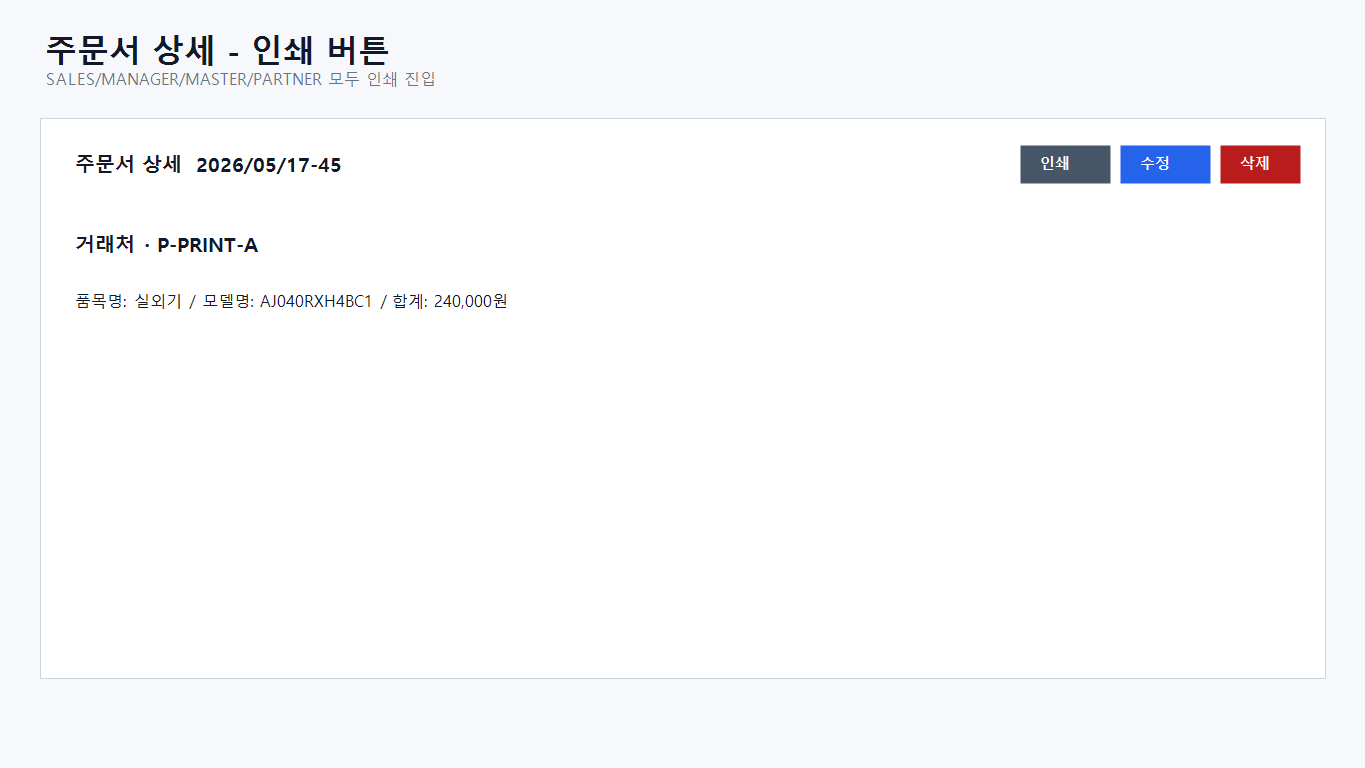
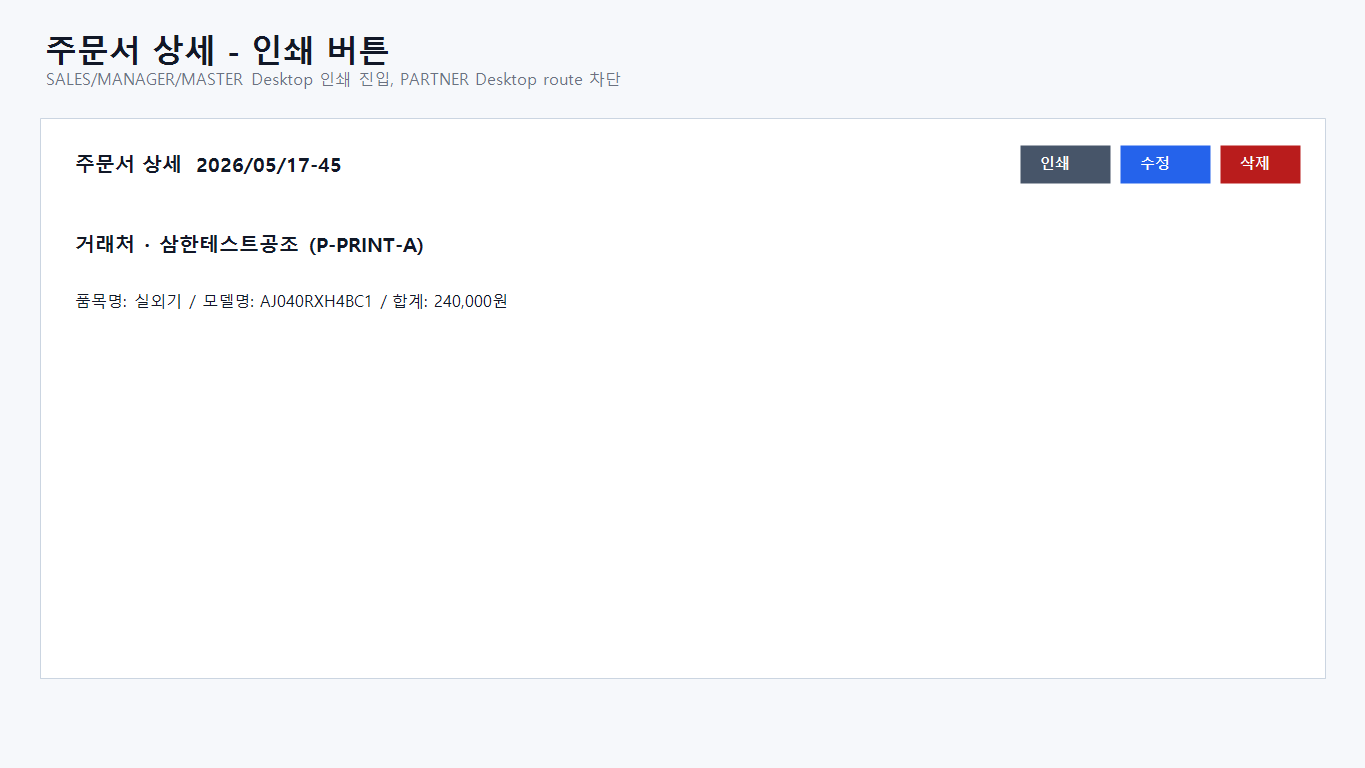
fix(sp-08-4-4): 사이클 1 Claude fix — CRITICAL 1 + P1 5 + P2/Nit 일괄 (5회차 1c)
사용자 정책 5회차: 사이클 1 = Claude review → **Claude fix** → Codex review → Codex fix. 양쪽 합의 핵심 결함 일괄 처리.

FE CRITICAL (D-1) — 기능 차단 해소:
- handlePrint window.open → apiClient.get blob + URL.createObjectURL 새 탭
- AuthSnapshot.partnerCode 저장/노출 (main IPC + preload + renderer)
- axios interceptor PARTNER role X-Partner-Code 자동 주입
- JWT Bearer + X-Partner-Code 정합 (운영 401/403 차단)

BE P1:
- PartnerOrderPrintService PartnerLookupClient 기반 거래처명 동적 조회
- PartnerOrderPrintIT Content-Type charset=UTF-8 헤더 직접 검증
- statusLabel() 한국어 매핑 (DRAFT/CONFIRMING/CONFIRMED/CANCELED → 초안/확인 중/확정/취소)

Designer P1:
- BE inline HTML + 'Pretendard Variable' 우선 순서 (font-weight 일관)
- print.module.css 제거 (BE inline 사용 — dead code 회피)
- tr { page-break-inside: avoid } 추가

FE HIGH/MEDIUM:
- /sales/partner-orders 라우트 RoleGuard ['SALES', 'MANAGER', 'MASTER'] (PARTNER 데스크탑 차단)
- handlePrint dead guard 제거

P2/Nit 일괄:
- HttpHeaderConstants.PARTNER_CODE_HEADER 추가 + Controller + IT 사용 (분산 정의 통합)
- PartnerOrderPrintService 부가세 역산 Javadoc 보강
- categoryLabel default "기타" fallback
- confirmedAt null → createdAt fallback
- IT saveOrder orderNo 포맷 일관 정리
- dev-report §6 Verification table PASS 갱신
- lint warning 0 (기존 2건 정리 — InventoryAuditDetailPage / SlipDetailPage)

skip (사이클 2 사용자 캡처 후 iteration):
- Designer D5 (날인란 라벨), D6 (버튼 위계), D7 (preview shadow)

검증:
- Gradle IT 5 회귀 + Content-Type 강화 + partnerName 검증 PASS (Codex sandbox GRADLE_USER_HOME)
- Desktop typecheck / lint PASS (warning 0)
[…]

Changed region(s): [[0.0308, 0.0938, 0.4615, 0.125], [0.0923, 0.2812, 0.3077, 0.3438]]

diff --git a/clients/desktop/src/renderer/routes/SalesPartnerOrderDetailPage.tsx b/clients/desktop/src/renderer/routes/SalesPartnerOrderDetailPage.tsx
@@ -17,6 +17,7 @@ import {
   type PartnerOrderDetail,
   type PartnerOrderUpdateRequest,
 } from '../api/sales'
+import { apiClient } from '../api/client'
 import { partnerOrderAuditApi } from '../api/createAuditApi'
 import { usePageTitleStore } from '../stores/pageTitle'
 import { useSessionStore } from '../stores/session'
@@ -30,7 +31,7 @@ const bundleModeLabel = (mode: 'EXPAND' | 'KEEP' | null) => {
   return null
 }
 const EDIT_ROLES = ['SALES', 'MANAGER', 'MASTER']
-const PRINT_ROLES = ['SALES', 'MANAGER', 'MASTER', 'PARTNER']
+const PRINT_ROLES = ['SALES', 'MANAGER', 'MASTER']
 
 type EditLine = PartnerOrderUpdateRequest['lines'][number] & { key: string }
 
@@ -67,6 +68,7 @@ export function SalesPartnerOrderDetailPage() {
   const [editOpen, setEditOpen] = useState(false)
   const [deleteOpen, setDeleteOpen] = useState(false)
   const [deleteErrorMessage, setDeleteErrorMessage] = useState<string | null>(null)
+  const [printErrorMessage, setPrintErrorMessage] = useState<string | null>(null)
   const [conflictMessage, setConflictMessage] = useState<string | null>(null)
   const [reloadSuccessMessage, setReloadSuccessMessage] = useState<string | null>(null)
   const [partnerCode, setPartnerCode] = useState('')
@@ -153,11 +155,44 @@ export function SalesPartnerOrderDetailPage() {
     }
   }, [refetch, syncFormFromData])
 
-  const handlePrint = useCallback(() => {
-    if (!orderId) return
-    const url = `/api/v1/partner-orders/${encodeURIComponent(orderId)}/print`
-    window.open(url, '_blank', 'width=900,height=1200')
-  }, [orderId])
+  const handlePrint = useCallback(async () => {
+    setPrintErrorMessage(null)
+    try {
+      const response = await apiClient.get(
+        `/api/v1/partner-orders/${encodeURIComponent(orderId)}/print`,
+        {
+          responseType: 'blob',
+          headers: auth?.partnerCode ? { 'X-Partner-Code': auth.partnerCode } : undefined,
+        },
+      )
+      const blob = new Blob([response.data], { type: 'text/html;charset=UTF-8' })
+      const url = URL.createObjectURL(blob)
+      const opened = window.open(url, '_blank', 'noopener,noreferrer')
+      if (!opened) {
+        URL.revokeObjectURL(url)
+        setPrintErrorMessage('인쇄 창을 열 수 없습니다. 팝업 차단 설정을 확인해 주세요.')
+        return
+      }
+      setTimeout(() => URL.revokeObjectURL(url), 60_000)
+    } catch (error) {
+      console.error('partner order print failed', error)
+      if (axios.isAxiosError(error)) {
+        if (error.response?.status === 401) {
+          setPrintErrorMessage('로그인이 만료되었습니다. 다시 로그인해 주세요.')
+          return
+        }
+        if (error.response?.status === 403) {
+          setPrintErrorMessage('이 주문서를 인쇄할 권한이 없습니다.')
+          return
+        }
+        if (error.response?.status === 404) {
+          setPrintErrorMessage('주문서를 찾을 수 없습니다. 목록에서 다시 선택해 주세요.')
+          return
+        }
+      }
+      setPrintErrorMessage('주문서 인쇄 파일을 불러오지 못했습니다. 잠시 후 다시 시도해 주세요.')
+    }
+  }, [auth?.partnerCode, orderId])
 
   useEffect(() => {
     setPageTitle({ title: `주문서 ${query.data?.orderNumber ?? '조회 중'}`, meta: '영업' })
@@ -240,6 +275,11 @@ export function SalesPartnerOrderDetailPage() {
             </Link>
           </div>
         </div>
+        {printErrorMessage ? (
+          <div className={styles['errorBanner']} role="alert" data-testid="partner-order-print-error">
+            {printErrorMessage}
+          </div>
+        ) : null}
 
         {query.isLoading ? (
           <div className={styles['emptyState']}>주문 상세를 불러오는 중…</div>

diff --git a/clients/desktop/playwright/sp-08-4-4-order-print-form/sp-08-4-4-order-print-form.spec.ts b/clients/desktop/playwright/sp-08-4-4-order-print-form/sp-08-4-4-order-print-form.spec.ts
@@ -25,35 +25,32 @@ test.describe('SP-08-4-4 주문 인쇄 양식 정적 계약', () => {
 
   test('T2: FE 주문 상세 인쇄 버튼', () => {
     const page = read('clients/desktop/src/renderer/routes/SalesPartnerOrderDetailPage.tsx')
+    const routes = read('clients/desktop/src/renderer/routes/index.tsx')
 
     expect(page).toContain('PRINT_ROLES')
-    expect(page).toContain("'PARTNER'")
     expect(page).toContain('partner-order-print-open')
     expect(page).toContain('variant="secondary"')
     expect(page).toContain('/api/v1/partner-orders/${encodeURIComponent(orderId)}/print')
-    expect(page).toContain("window.open(url, '_blank', 'width=900,height=1200')")
+    expect(page).toContain("apiClient.get")
+    expect(page).toContain('URL.createObjectURL')
+    expect(page).toContain("window.open(url, '_blank', 'noopener,noreferrer')")
+    expect(routes).toContain("const SALES_PARTNER_ORDER_ROLES = ['SALES', 'MANAGER', 'MASTER'] as const")
   })
 
-  test('T3: print stylesheet @media print 정의', () => {
-    const css = read('clients/desktop/src/renderer/components/sales/print.module.css')
+  test('T3: BE inline print stylesheet @media print 정의', () => {
     const service = read('services/partner-order-service/src/main/java/com/samhanair/logis/partnerorder/service/PartnerOrderPrintService.java')
 
-    expect(css).toContain('@media print')
-    expect(css).toContain('@page')
-    expect(css).toContain('Pretendard')
     expect(service).toContain('@font-face')
-    expect(service).toContain("'Pretendard'")
+    expect(service).toContain("'Pretendard Variable', Pretendard")
+    expect(service).toContain('tr { page-break-inside: avoid; }')
   })
 
   test('T4: A4 layout 정합', () => {
-    const css = read('clients/desktop/src/renderer/components/sales/print.module.css')
     const service = read('services/partner-order-service/src/main/java/com/samhanair/logis/partnerorder/service/PartnerOrderPrintService.java')
 
-    expect(css).toContain('width: 210mm')
-    expect(css).toContain('min-height: 297mm')
-    expect(css).toContain('page-break-after: avoid')
     expect(service).toContain('width: 210mm;')
     expect(service).toContain('min-height: 297mm;')
+    expect(service).toContain('page-break-after: avoid;')
     expect(service).toContain('거래처 정보')
     expect(service).toContain('날인란')
   })
@@ -64,7 +61,7 @@ test.describe('SP-08-4-4 주문 인쇄 양식 정적 계약', () => {
     const it = read('services/partner-order-service/src/test/java/com/samhanair/logis/partnerorder/it/PartnerOrderPrintIT.java')
 
     expect(controller).toContain('HttpHeaderConstants.CALLER_ROLE_HEADER')
-    expect(controller).toContain('X-Partner-Code')
+    expect(controller).toContain('HttpHeaderConstants.PARTNER_CODE_HEADER')
     expect(service).toContain('"PARTNER".equalsIgnoreCase')
     expect(service).toContain('본인 거래처 주문서만 인쇄할 수 있습니다.')
     expect(it).toContain('testPrintPartnerRoleSeesOwnOrderOnly')

diff --git a/clients/desktop/src/renderer/routes/index.tsx b/clients/desktop/src/renderer/routes/index.tsx
@@ -287,6 +287,9 @@ const INBOUND_INSPECTION_ROLES = ['WAREHOUSE', 'MANAGER', 'MASTER'] as const
 /** 전표 신규 작성 권한 — slip-service SlipController#create 와 1:1. */
 const SLIP_CREATE_ROLES = ['SALES', 'MANAGER', 'MASTER'] as const
 
+/** 거래처 주문 운영 화면 권한 — PARTNER 데스크톱 직접 진입은 차단한다. */
+const SALES_PARTNER_ORDER_ROLES = ['SALES', 'MANAGER', 'MASTER'] as const
+
 /** 재고이동 신규 작성 권한 — inventory-service StockTransferController#create 와 1:1. */
 const TRANSFER_CREATE_ROLES = ['MASTER', 'MANAGER', 'WAREHOUSE', 'INVENTORY'] as const
 
@@ -369,8 +372,22 @@ const router = createHashRouter([
       // legacy webview (EstimateLegacyWebviewPage) 폐기. 정적 path 우선 매칭 의무.
       { path: '/sales/estimates', element: <EstimateListPage /> },
       { path: '/sales/estimates/new', element: <EstimateFormPage /> },
-      { path: '/sales/partner-orders', element: <SalesPartnerOrderListPage /> },
-      { path: '/sales/partner-orders/:id', element: <SalesPartnerOrderDetailPage /> },
+      {
+        path: '/sales/partner-orders',
+        element: (
+          <RoleGuard allow={SALES_PARTNER_ORDER_ROLES}>
+            <SalesPartnerOrderListPage />
+          </RoleGuard>
+        ),
+      },
+      {
+        path: '/sales/partner-orders/:id',
+        element: (
+          <RoleGuard allow={SALES_PARTNER_ORDER_ROLES}>
+            <SalesPartnerOrderDetailPage />
+          </RoleGuard>
+        ),
+      },
       { path: '/sales/order-approvals', element: <SalesOrderApprovalsPage /> },
       {
         path: '/sales/partner-dc-config',

diff --git a/clients/desktop/src/main/store/auth-store.ts b/clients/desktop/src/main/store/auth-store.ts
@@ -20,6 +20,7 @@ interface AuthSchema {
   userId?: string
   role?: string
   fullName?: string
+  partnerCode?: string
 }
 
 const store = new Store<AuthSchema>({ name: 'samhan-auth' })
@@ -33,6 +34,7 @@ export interface AuthSnapshot {
   userId: string
   role: string
   fullName: string
+  partnerCode?: string
 }
 
 /**
@@ -51,6 +53,7 @@ export function saveToken(
   userId: string,
   role: string,
   fullName: string,
+  partnerCode?: string,
 ): void {
   if (safeStorage.isEncryptionAvailable()) {
     const encrypted = safeStorage.encryptString(token).toString('base64')
@@ -63,6 +66,11 @@ export function saveToken(
   store.set('userId', userId)
   store.set('role', role)
   store.set('fullName', fullName)
+  if (partnerCode && partnerCode.trim()) {
+    store.set('partnerCode', partnerCode.trim())
+  } else {
+    store.delete('partnerCode')
+  }
 }
 
 /**
@@ -93,6 +101,7 @@ export function loadToken(): AuthSnapshot | null {
     userId: store.get('userId') ?? '',
     role: store.get('role') ?? '',
     fullName: store.get('fullName') ?? '',
+    partnerCode: store.get('partnerCode'),
   }
 }
 

diff --git a/clients/desktop/src/renderer/routes/InventoryAuditDetailPage.tsx b/clients/desktop/src/renderer/routes/InventoryAuditDetailPage.tsx
@@ -40,6 +40,7 @@ import {
   Card,
   DataTable,
   FormField,
+  type AuditLogEntry,
   type DataTableColumn,
 } from '@samhan/design-system'
 import {
@@ -310,7 +311,7 @@ export function InventoryAuditDetailPage() {
 interface DetailGridProps {
   audit: AuditDetail
   /** PR-H4c FE-B: field 별 audit log group — totalDiffAmount overlay 표시. */
-  auditByField: Record<string, import('@samhan/design-system').AuditLogEntry[]>
+  auditByField: Record<string, AuditLogEntry[]>
 }
 
 function DetailGrid({ audit, auditByField }: DetailGridProps) {

diff --git a/clients/desktop/src/renderer/api/mock.ts b/clients/desktop/src/renderer/api/mock.ts
@@ -165,6 +165,7 @@ export const MOCK_AUTH = {
   userId: '00000000-0000-0000-0000-000000010001',
   role: _resolveMockRole(),
   fullName: '오병승',
+  partnerCode: 'P-MOCK-001',
 }
 
 /** 시드 4 창고 (V2 시드와 동일) */
@@ -693,6 +694,7 @@ export function getMockResponse(config: AxiosRequestConfig): unknown | null {
       userId: MOCK_AUTH.userId,
       role: MOCK_AUTH.role,
       fullName: MOCK_AUTH.fullName,
+      partnerCode: MOCK_AUTH.partnerCode,
     })
   }
 

diff --git a/clients/desktop/src/renderer/api/client.ts b/clients/desktop/src/renderer/api/client.ts
@@ -69,6 +69,9 @@ apiClient.interceptors.request.use(
       if (auth?.token) {
         config.headers.set('Authorization', `Bearer ${auth.token}`)
       }
+      if (auth?.role === 'PARTNER' && auth.partnerCode) {
+        config.headers.set('X-Partner-Code', auth.partnerCode)
+      }
     } catch (err) {
       // IPC 실패는 치명적 — 다음 단계 axios 가 401/네트워크 오류로 핸들.
       console.error('[apiClient] 토큰 조회 IPC 실패', err)

diff --git a/clients/desktop/src/renderer/routes/SlipDetailPage.tsx b/clients/desktop/src/renderer/routes/SlipDetailPage.tsx
@@ -474,7 +474,7 @@ export function SlipDetailPage({ mode }: SlipDetailPageProps) {
         .map(([code, qty]) => `${code}: ${qty == null ? '가상' : qty.toLocaleString()}`)
         .join('\n')
       alert(`[재고 조회] ${row.modelName}\n총합: ${row.total.toLocaleString()}\n\n${perWh}`)
-    } catch (err) {
+    } catch {
       alert('재고 조회 실패')
     }
   }

diff --git a/clients/desktop/src/main/ipc/auth-token.ts b/clients/desktop/src/main/ipc/auth-token.ts
@@ -29,7 +29,7 @@ export function registerAuthIpcHandlers(): void {
   ipcMain.handle(
     'auth:set-token',
     (_event, payload: AuthSnapshot): void => {
-      saveToken(payload.token, payload.userId, payload.role, payload.fullName)
+      saveToken(payload.token, payload.userId, payload.role, payload.fullName, payload.partnerCode)
     },
   )
 

diff --git a/clients/desktop/src/renderer/routes/LoginPage.tsx b/clients/desktop/src/renderer/routes/LoginPage.tsx
@@ -72,6 +72,7 @@ export function LoginPage() {
         userId: res.userId,
         role: res.role,
         fullName: res.displayName,
+        partnerCode: res.partnerCode,
       })
       navigate('/', { replace: true })
     },

diff --git a/clients/desktop/src/renderer/types/electron.d.ts b/clients/desktop/src/renderer/types/electron.d.ts
@@ -10,6 +10,7 @@ export interface AuthSnapshot {
   userId: string
   role: string
   fullName: string
+  partnerCode?: string
 }
 
 declare global {

diff --git a/clients/desktop/src/renderer/api/auth.ts b/clients/desktop/src/renderer/api/auth.ts
@@ -26,6 +26,7 @@ export interface LoginResponse {
   userId: string
   role: string
   displayName: string
+  partnerCode?: string
 }
 
 /**
